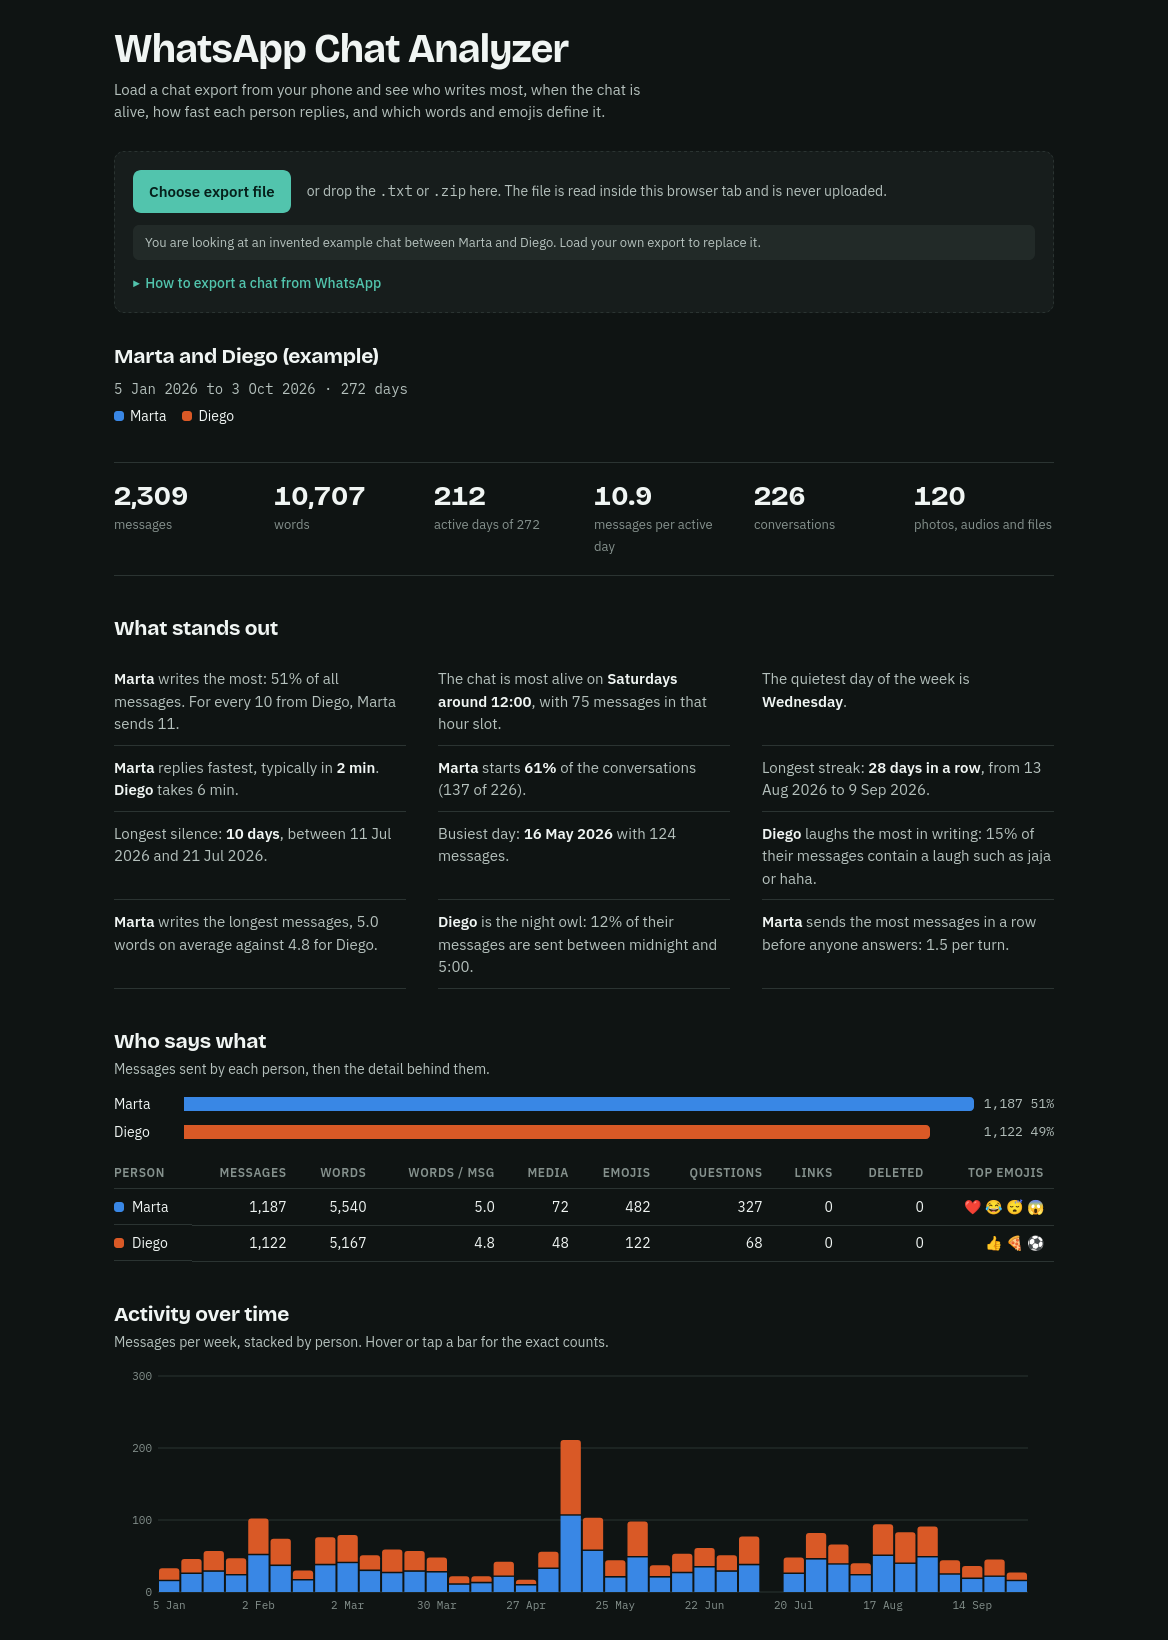
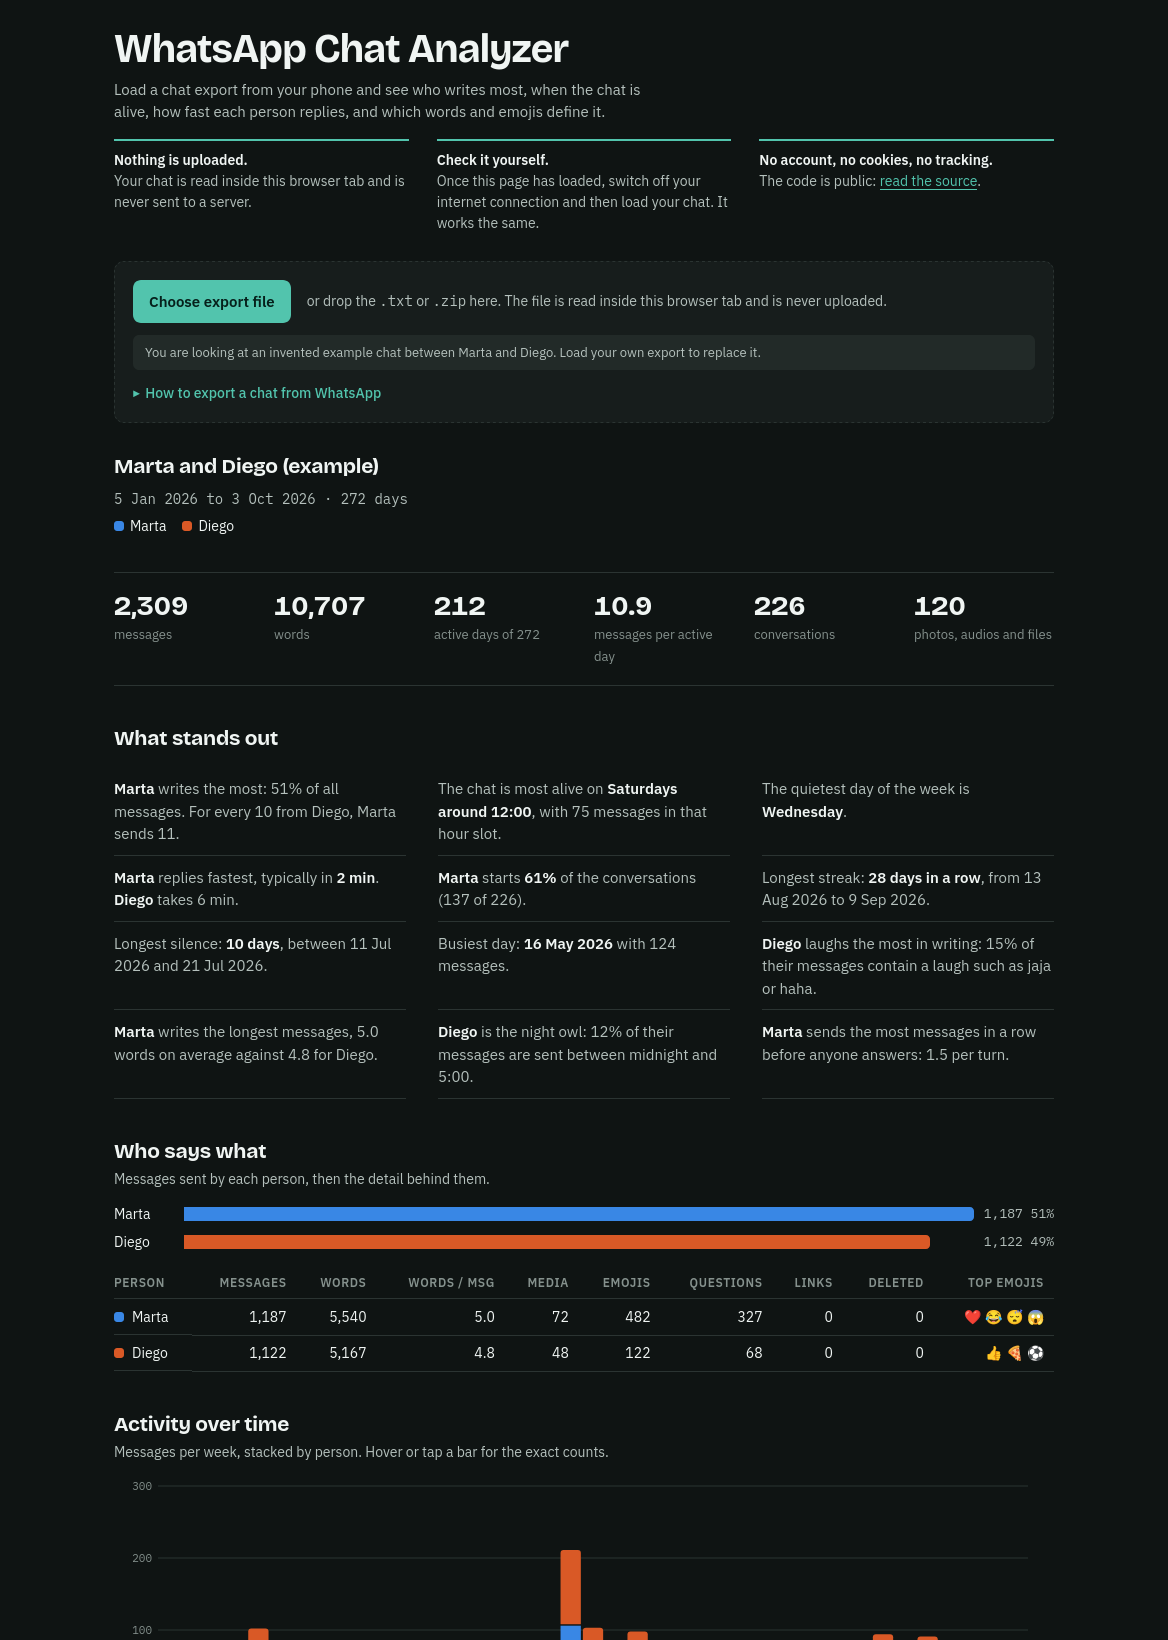
Add trust points to the page top and link the live site
Value
-----
The page asks people to load a private chat, but the reasons to trust
it were a clause next to the file picker and a paragraph in the
footer. A visitor now reads them before the file picker, and one of
them is a test they can run themselves instead of a promise.

The site is also live on GitHub Pages now, which the README, the page
metadata and the roadmap did not reflect.

Changes
-------
Page
- Three trust points under the title: nothing is uploaded; switch off
  the internet connection after the page loads and it still works; no
  account, cookies or tracking, with a link to the source.
- og:url points at the live URL.

Docs
- README: "Try it live" link at the top; screenshots retaken because
  the top of the page changed.
- ROADMAP: records that the repository is public and the page was
  first deployed on 2026-10-07, and drops the steps that are done.

Tests
-----
`npm run check` passes (1,520 tests, lint, format, type check, build).

The offline claim was checked by hand in headless Firefox against the
built page: the page was loaded, the server stopped, and an invented
chat then loaded and analysed correctly. With the server running, the
same load used the Web Worker. Neither run is part of the suite.

The code uses no cookies and no browser storage (no localStorage,
sessionStorage, IndexedDB or document.cookie in src/).

Not covered: the live site only changes when the Pages workflow is
run again by hand.

diff --git a/index.html b/index.html
@@ -15,6 +15,7 @@
       content="See who writes most, when a chat is alive and how fast each person replies. Your WhatsApp export is read inside the browser and never uploaded."
     />
     <meta property="og:type" content="website" />
+    <meta property="og:url" content="https://nicolasfeoli.github.io/whatsapp-chat-analyzer/" />
     <meta property="og:title" content="WhatsApp Chat Analyzer" />
     <meta
       property="og:description"
@@ -33,6 +34,24 @@
           Load a chat export from your phone and see who writes most, when the chat is alive, how
           fast each person replies, and which words and emojis define it.
         </p>
+        <ul class="trust-points" aria-label="Why it is safe to load a private chat here">
+          <li>
+            <strong>Nothing is uploaded.</strong>
+            Your chat is read inside this browser tab and is never sent to a server.
+          </li>
+          <li>
+            <strong>Check it yourself.</strong>
+            Once this page has loaded, switch off your internet connection and then load your chat.
+            It works the same.
+          </li>
+          <li>
+            <strong>No account, no cookies, no tracking.</strong>
+            The code is public:
+            <a href="https://github.com/nicolasfeoli/whatsapp-chat-analyzer" rel="noopener"
+              >read the source</a
+            >.
+          </li>
+        </ul>
       </header>
 
       <div class="loader" id="loader">

diff --git a/src/styles/main.css b/src/styles/main.css
@@ -154,6 +154,30 @@ p {
   color: var(--ink-2);
   max-width: 62ch;
 }
+/* Reasons to trust the page with a private chat, stated before the file picker. */
+.trust-points {
+  list-style: none;
+  margin: 8px 0 0;
+  padding: 0;
+  display: grid;
+  grid-template-columns: repeat(auto-fit, minmax(230px, 1fr));
+  gap: 12px 28px;
+  font-size: 14px;
+  color: var(--ink-2);
+}
+.trust-points li {
+  border-top: 2px solid var(--accent);
+  padding-top: 8px;
+}
+.trust-points strong {
+  display: block;
+  color: var(--ink);
+  font-weight: 600;
+}
+.trust-points a {
+  color: var(--accent);
+  text-underline-offset: 3px;
+}
 .monospace {
   font-family: var(--mono);
   font-variant-numeric: tabular-nums;

diff --git a/ROADMAP.md b/ROADMAP.md
@@ -39,7 +39,7 @@ Each fix has a test (now under `tests/core`, run `npm test`), and the page was c
 - GitHub Actions runs `npm run check` on Node 22 and 24 for every pull request and every push to `main`.
 - Bug report template that asks for invented lines instead of a real chat.
 - `CONTRIBUTING.md` with setup, code style and test conventions.
-- A Pages workflow that builds and deploys `dist/`. It only runs when started by hand, and Pages is not enabled on the repository yet.
+- A Pages workflow that builds and deploys `dist/`. It only runs when started by hand. The repository was made public and the page first deployed on 2026-10-07, to <https://nicolasfeoli.github.io/whatsapp-chat-analyzer/>.
 
 ### Rewrite in TypeScript on 2026-10-06
 
@@ -107,8 +107,8 @@ Each fix has a test (now under `tests/core`, run `npm test`), and the page was c
 These need a decision rather than more code.
 
 - Decide on the name, given the trademark risk above.
-- Make the repository public and pick a host. GitHub Pages is the simplest; a host that can send headers allows a stricter policy.
-- Once the public URL is known: add `og:url`, a social preview image, and point the footer link at the public repo.
+- Decide whether to stay on GitHub Pages. It is live there now; a host that can send headers allows a stricter policy.
+- Add a social preview image. (`og:url` is set and the footer links to the public repo.)
 - Try it by hand on a real phone, in Chrome and in Safari, with a real Android export.
 
 ### Correctness and robustness
@@ -147,7 +147,7 @@ These need a decision rather than more code.
 
 ### Project hygiene
 
-- GitHub Actions: validate HTML. Enable Pages and run the deploy workflow once a host is chosen.
+- GitHub Actions: validate HTML. Deploy to Pages on every push to `main` instead of by hand.
 - One smoke test in a real browser (Playwright against `vite preview`): load a `.txt`, check that the report renders with no Content-Security-Policy violation. It is the only way to prove that `worker-src 'self'` and `connect-src 'none'` work together with the real worker; the suite uses stand-ins for `Worker` and for the worker's global scope.
 - Dependabot for the npm dependencies.
 - A `SECURITY.md` with a contact address.

diff --git a/README.md b/README.md
@@ -3,6 +3,8 @@
 [![CI](https://github.com/nicolasfeoli/whatsapp-chat-analyzer/actions/workflows/ci.yml/badge.svg)](https://github.com/nicolasfeoli/whatsapp-chat-analyzer/actions/workflows/ci.yml)
 [![License: MIT](https://img.shields.io/badge/license-MIT-blue.svg)](LICENSE)
 
+**[Try it live](https://nicolasfeoli.github.io/whatsapp-chat-analyzer/)**: it opens with an invented example chat, and you can drop your own export on it.
+
 A static page that reads a WhatsApp chat export (`.txt` or `.zip`) and shows who writes most, when the chat is alive, how fast each person replies, and which words and emojis define it.
 
 The chat never leaves the browser tab. There is no backend, and the page's Content-Security-Policy forbids page scripts from opening a network connection.
